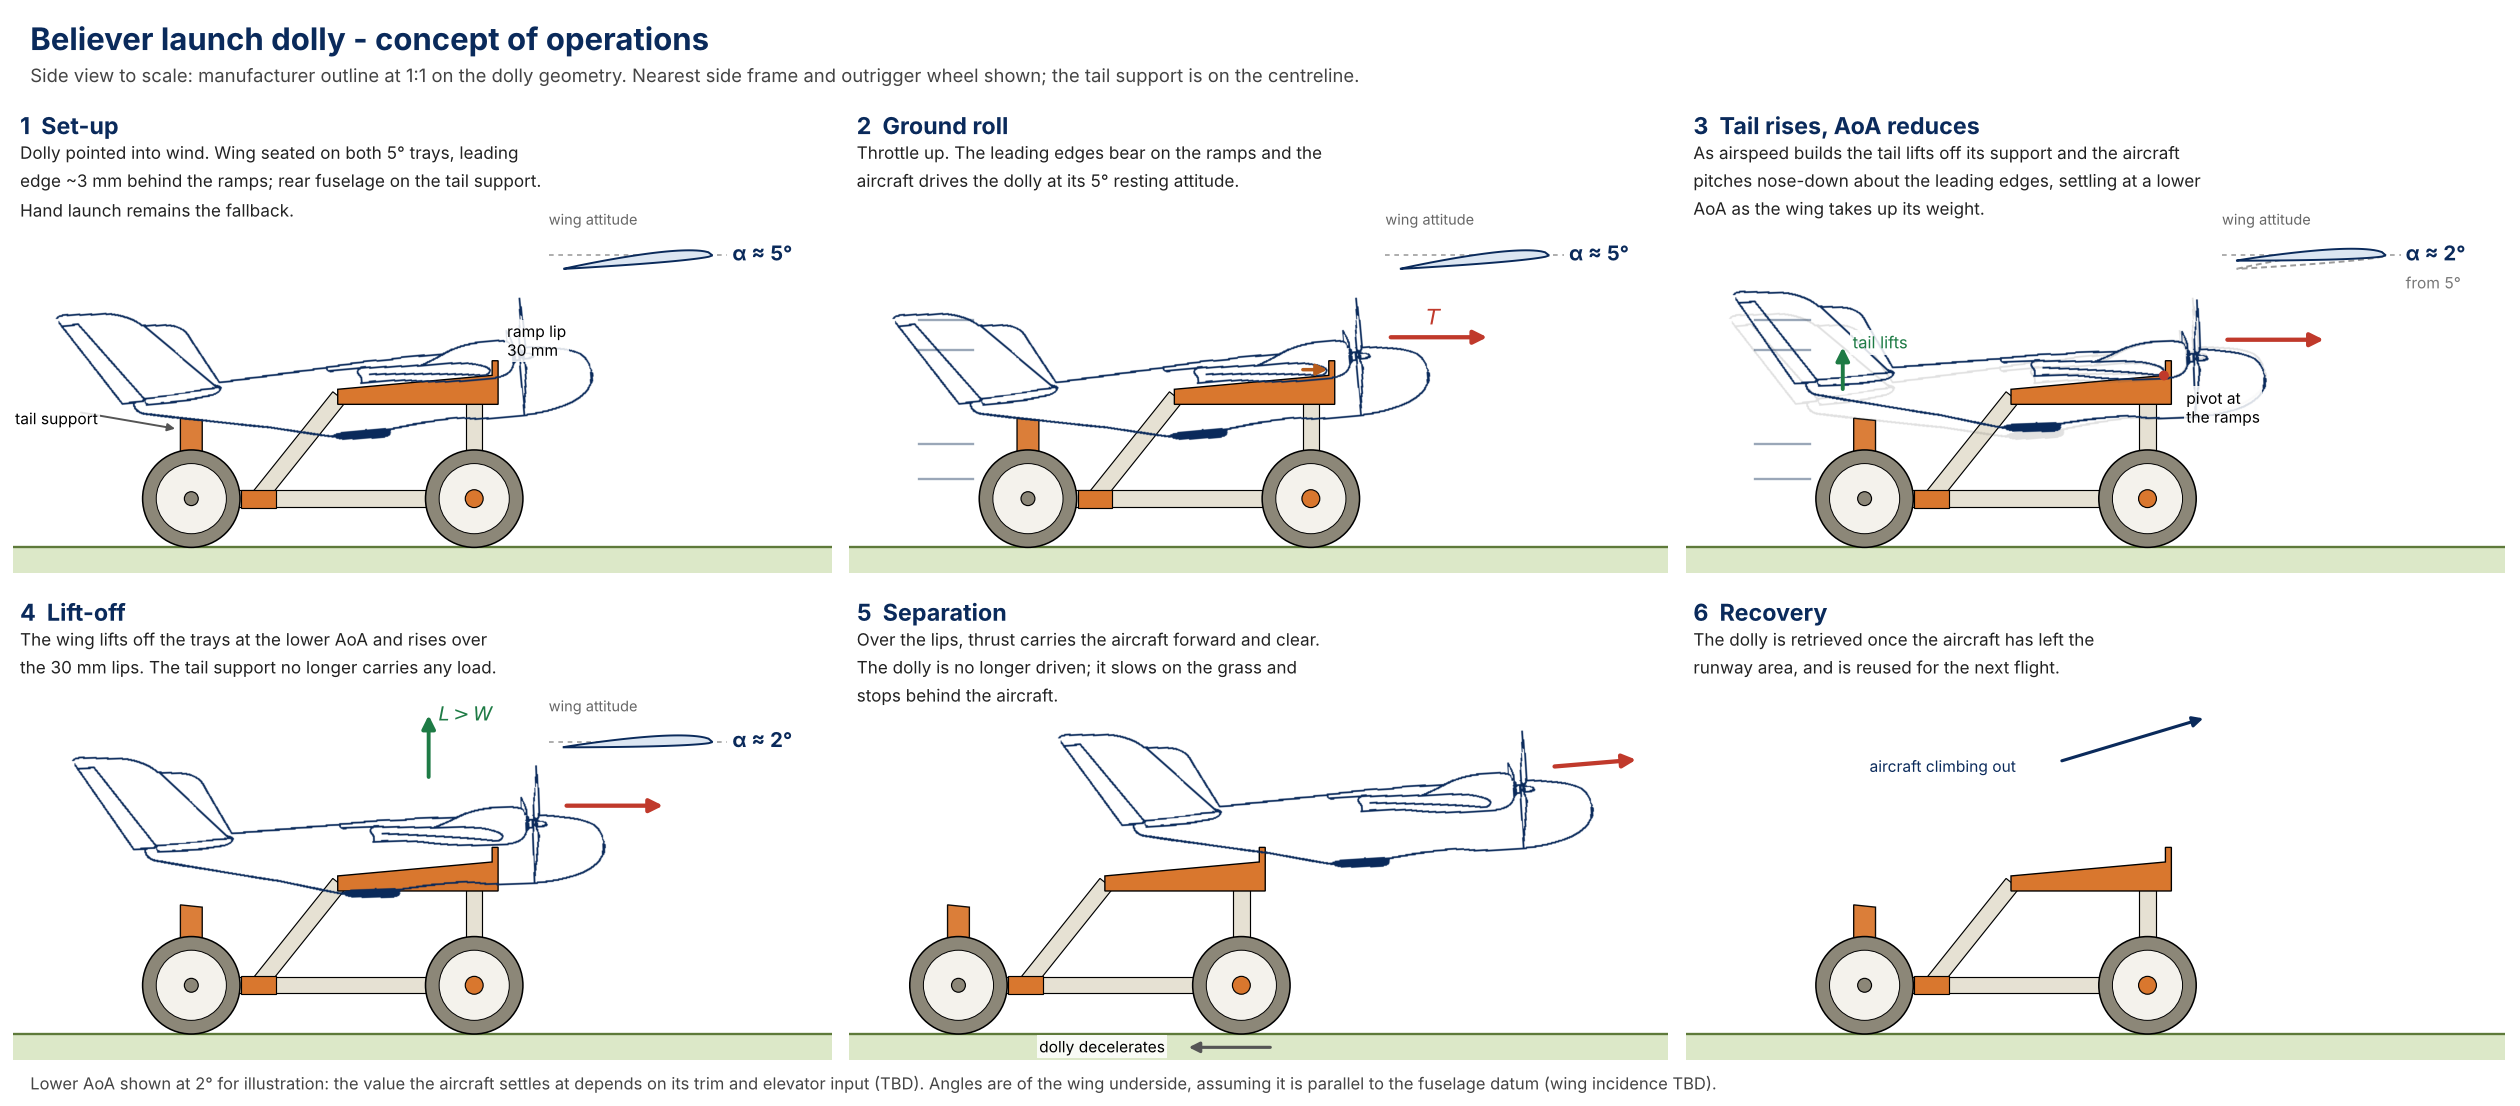
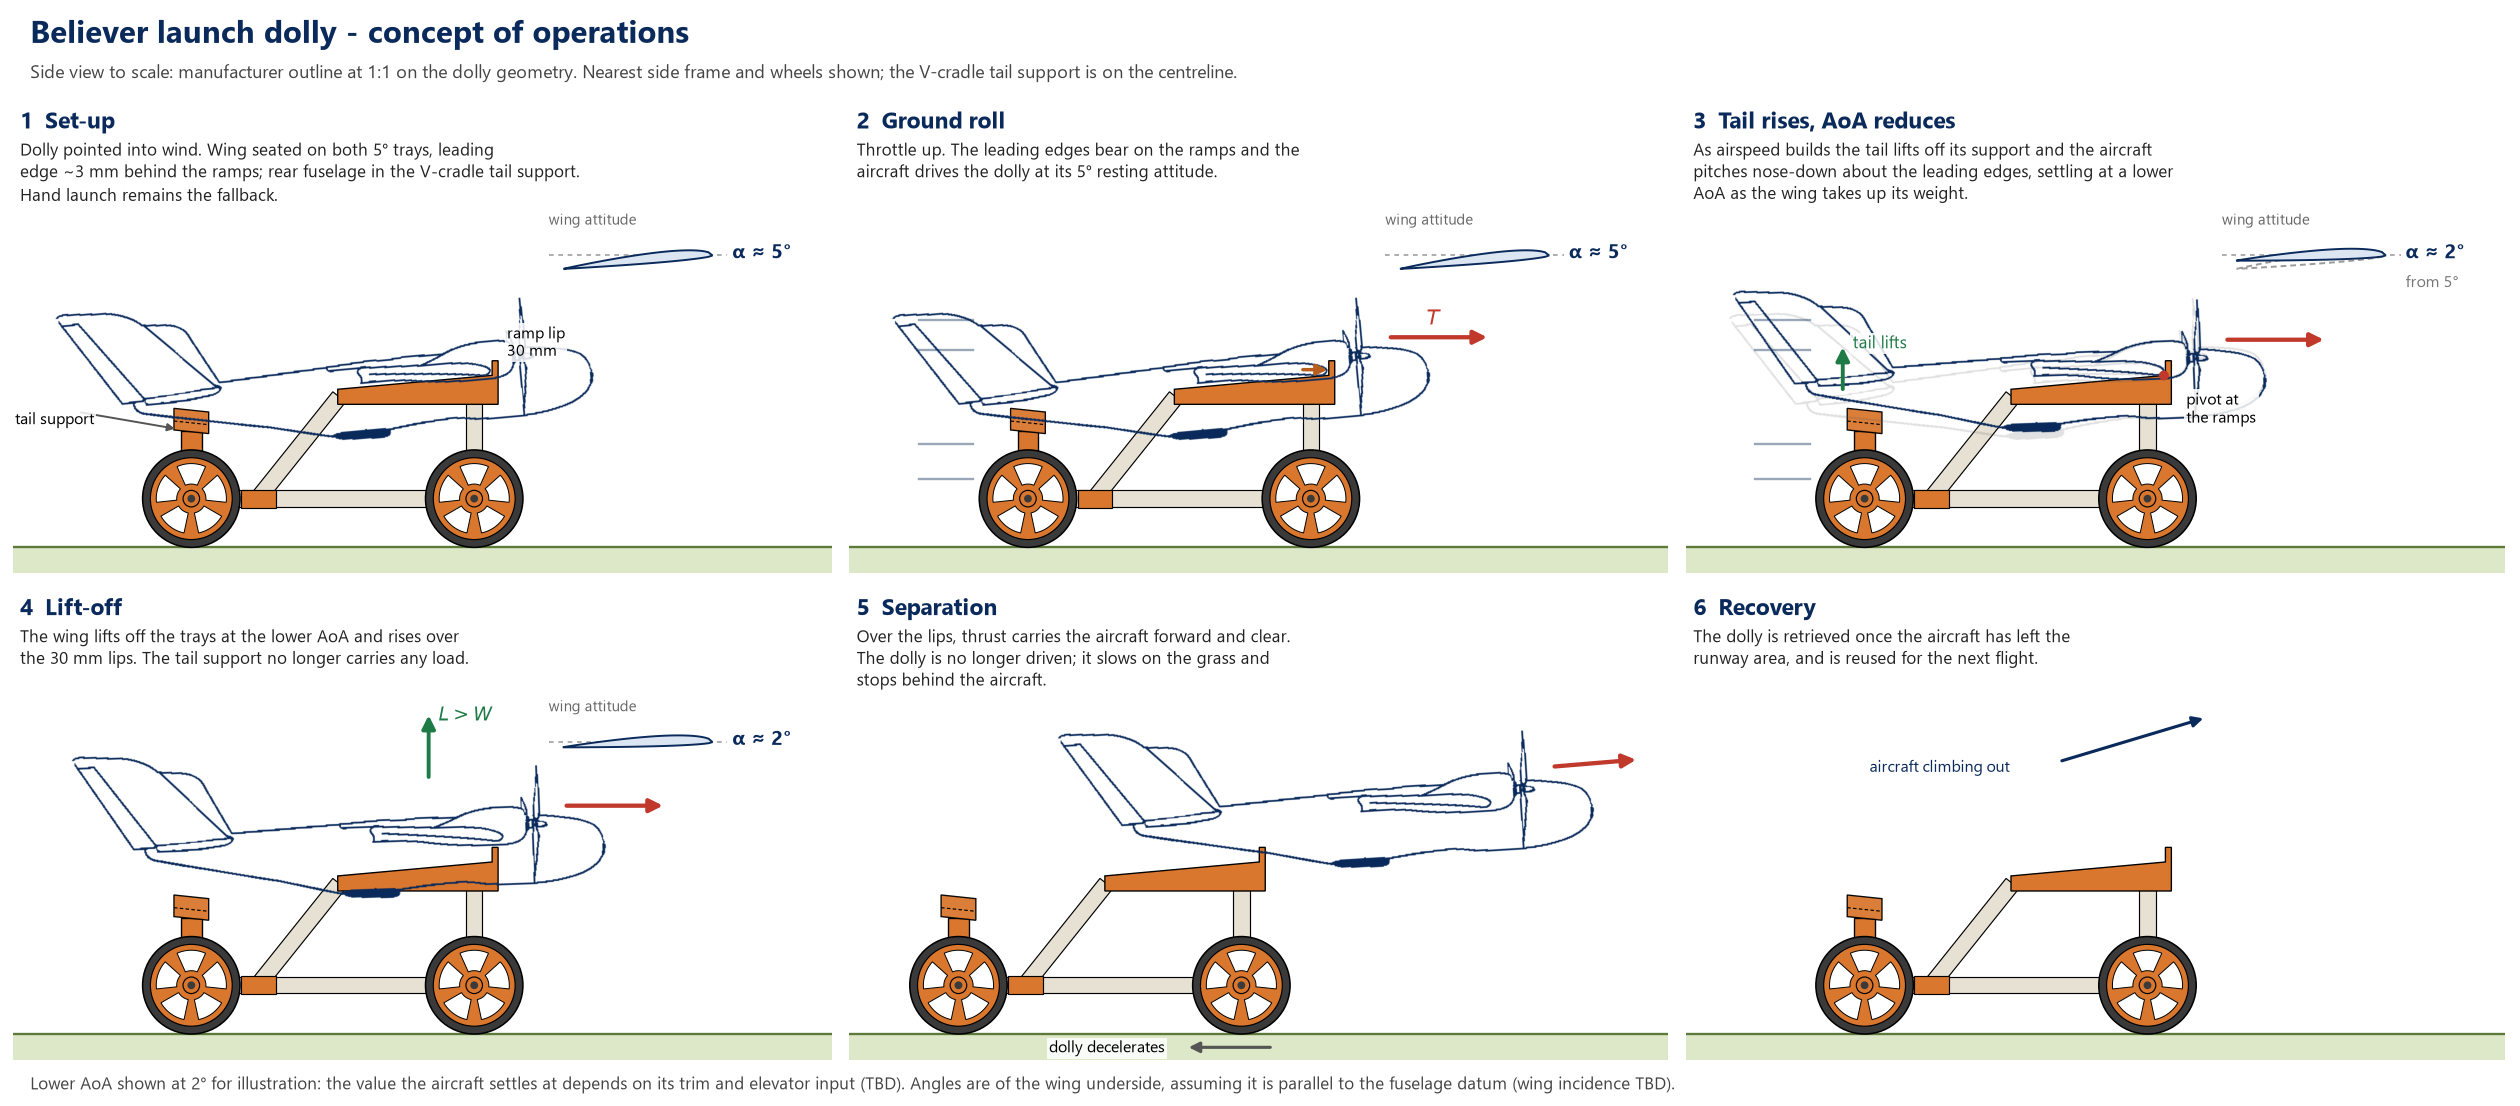
Redraw the launch dolly CONOPS image to match the Fusion model
V-cradle tail support on its centreline post, five-spoke wheels, and no
outrigger reference in the caption. Font falls back to Segoe UI when
Inter is not installed.

diff --git a/docs/engineering/analysis/launch-dolly-concept/rear-support-fit/conops_image.py b/docs/engineering/analysis/launch-dolly-concept/rear-support-fit/conops_image.py
@@ -6,6 +6,8 @@ import matplotlib.pyplot as plt
 import matplotlib.patches
 from matplotlib.patches import Polygon, Circle, Rectangle, FancyArrowPatch
 import fit_side_view as F
+_fonts = {f.name for f in matplotlib.font_manager.fontManager.ttflist}
+plt.rcParams["font.family"] = next(f for f in ("Inter", "Segoe UI", "DejaVu Sans") if f in _fonts)
 
 NAVY, OR, ORD, TUBE, GREY = "#0A2A5B", "#D9772E", "#B85E1E", "#E6E1D3", "#8C8778"
 S, X0, Y0 = F.S, 755.3, F.RAIL_C                     # screenshot px -> dolly mm (origin: front cross centre)
@@ -63,16 +65,27 @@ def dolly(ax, dx=0.0):
     tray = [(-275, 190), (X_RAMP + 12, 190), (X_RAMP + 12, Y_LIP), (X_RAMP, Y_LIP), (X_RAMP, tray_top(X_RAMP))] + \
            [(x, tray_top(x)) for x in xs[::-1]]
     ax.add_patch(Polygon(sh(tray), closed=True, fc=OR, ec="k", lw=0.7, zorder=5))
-    # tail support: centreline post on the rear cross member, pad top at the belly, 6 deg
-    t6 = math.tan(math.radians(6))
-    ax.add_patch(Polygon(sh([(X_AX - 22, 18), (X_AX + 22, 18), (X_AX + 22, PAD_TOP - 22 * t6), (X_AX - 22, PAD_TOP + 22 * t6)]),
+    # tail support: V-cradle on a centreline post on the rear cross member, belly in the V, top 6 deg (higher at the rear)
+    t6 = math.tan(math.radians(6)); L2 = 35
+    apex, tips, bot = PAD_TOP - 7, PAD_TOP + 18.5, PAD_TOP - 25
+    tube(ax, (X_AX + dx, 18), (X_AX + dx, bot - 40), w=32, z=3)
+    ax.add_patch(Rectangle((X_AX - 21 + dx, bot - 55), 42, 56, fc=OR, ec="k", lw=0.7, zorder=4))
+    ax.add_patch(Polygon(sh([(X_AX - L2, bot + L2 * t6), (X_AX + L2, bot - L2 * t6), (X_AX + L2, tips - L2 * t6), (X_AX - L2, tips + L2 * t6)]),
                          closed=True, fc=OR, ec="k", lw=0.7, zorder=4, alpha=0.95))
-    ax.add_patch(Circle((X_AX + dx, 0), R_W, fc=GREY, ec="k", lw=0.8, zorder=5))
-    ax.add_patch(Circle((X_AX + dx, 0), R_W * 0.72, fc="#F4F2EC", ec="k", lw=0.5, zorder=5))
-    ax.add_patch(Circle((X_AX + dx, 0), 14, fc=GREY, ec="k", lw=0.6, zorder=5))
-    ax.add_patch(Circle((dx, 0), R_W, fc=GREY, ec="k", lw=0.8, zorder=7))
-    ax.add_patch(Circle((dx, 0), R_W * 0.72, fc="#F4F2EC", ec="k", lw=0.5, zorder=7))
-    ax.add_patch(Circle((dx, 0), 18, fc=OR, ec="k", lw=0.6, zorder=7))
+    ax.plot([X_AX - L2 + dx, X_AX + L2 + dx], [apex + L2 * t6, apex - L2 * t6], color="k", lw=0.6, ls=(0, (3, 2)), zorder=4)
+    wheel(ax, X_AX + dx, 5); wheel(ax, dx, 7)
+
+def wheel(ax, x, z):
+    """Five-spoke printed wheel with a tyre, as in the Fusion model."""
+    ax.add_patch(Circle((x, 0), R_W, fc="#3A3A3A", ec="k", lw=0.8, zorder=z))
+    ax.add_patch(Circle((x, 0), R_W * 0.84, fc=OR, ec="k", lw=0.6, zorder=z))
+    for k in range(5):
+        th = np.radians(90 + 72 * k + np.linspace(-24, 24, 12))
+        r1, r2 = R_W * 0.30, R_W * 0.72
+        P = np.r_[np.c_[r2 * np.cos(th), r2 * np.sin(th)], np.c_[r1 * np.cos(th[::-1]), r1 * np.sin(th[::-1])]] + [x, 0]
+        ax.add_patch(Polygon(P, closed=True, fc="white", ec="k", lw=0.5, zorder=z))
+    ax.add_patch(Circle((x, 0), R_W * 0.17, fc=OR, ec="k", lw=0.6, zorder=z))
+    ax.add_patch(Circle((x, 0), R_W * 0.08, fc="#3A3A3A", ec="none", zorder=z))
 
 def arrow(ax, p, q, col, lw=2.2, z=9, ms=14):
     ax.add_patch(FancyArrowPatch(p, q, arrowstyle="-|>", mutation_scale=ms, lw=lw, color=col, zorder=z))
@@ -91,8 +104,8 @@ def panel(ax, n, title, body):
 
 fig = plt.figure(figsize=(18, 7.9), dpi=140)
 fig.text(0.012, 0.982, "Believer launch dolly - concept of operations", fontsize=16, weight="bold", va="top", color=NAVY)
-fig.text(0.012, 0.942, "Side view to scale: manufacturer outline at 1:1 on the dolly geometry. Nearest side frame and outrigger wheel shown; "
-         "the tail support is on the centreline.", fontsize=9.5, va="top", color="#444")
+fig.text(0.012, 0.942, "Side view to scale: manufacturer outline at 1:1 on the dolly geometry. Nearest side frame and wheels shown; "
+         "the V-cradle tail support is on the centreline.", fontsize=9.5, va="top", color="#444")
 axs = [fig.add_axes([0.005 + c * 0.332, 0.475 - r * 0.44, 0.325, 0.44]) for r in range(2) for c in range(3)]
 LEc = np.array([LE[0], LE[1] - 2.0])                       # leading-edge contact on the tray (pivot for pitch-down)
 A_LOW = 2.0                                                # illustrative lower AoA (trim), TBD
@@ -139,7 +152,7 @@ def ghost(ax):
     aircraft(ax, alpha=0.18, colour="#555555")
 
 # 1 set-up
-ax = axs[0]; panel(ax, 1, "Set-up", "Dolly pointed into wind. Wing seated on both 5° trays, leading\nedge ~3 mm behind the ramps; rear fuselage on the tail support.\nHand launch remains the fallback.")
+ax = axs[0]; panel(ax, 1, "Set-up", "Dolly pointed into wind. Wing seated on both 5° trays, leading\nedge ~3 mm behind the ramps; rear fuselage in the V-cradle tail support.\nHand launch remains the fallback.")
 dolly(ax); f = aircraft(ax); gauge(ax, F.TRAY_DEG)
 label(ax, X_RAMP + 30, Y_LIP + 10, "ramp lip\n30 mm", fontsize=8)
 label(ax, -925, 150, "tail support", fontsize=8)

diff --git a/AI-context/CHANGELOG.md b/AI-context/CHANGELOG.md
@@ -2,6 +2,9 @@
 
 All notable changes to the Believer project repo are logged here, most recent first.
 
+## 2026-11-09
+- Redrew `docs/assets/diagrams/launch-dolly-conops.png` to match the current Fusion dolly model: the tail support is now drawn as the V-cradle on its centreline post (top 6 deg, higher at the rear), both wheels are the five-spoke printed wheels, and the caption no longer refers to an outrigger wheel. Geometry is otherwise unchanged from the 2026-11-05 side-view fit (rear axle 570 mm aft of the front cross member, wheel about 196 mm). `rear-support-fit/conops_image.py` now uses Inter if installed, otherwise Segoe UI, otherwise DejaVu Sans.
+
 ## 2026-11-05
 - Launch dolly, per Julian: designed the tail support from the rear view. New `docs/engineering/analysis/launch-dolly-concept/tail_cradle.py` generates sheet BLV-DOL-007 (section at the rear axle looking forward, cradle section and side, 1:3 and 1:2; also `docs/assets/diagrams/launch-dolly-BLV-DOL-007.png`) and the printable cradle (`out/printed-tail-cradle-v2.step/.stl`, TPU liner `-liner.stl`). A 160 mm wide V-cradle with 20 deg flanks and a 4 mm TPU liner, top inclined 6 deg to match the belly, on a 32 mm post with an M5 cross-bolt for +/-20 mm height adjustment, in a tee on the rear cross member; V apex 153 mm above the axle so the belly bottom sits 160 mm above it. The fuselage section at the station (assumed 130 x 65 mm, rounded) is TBD - the manufacturer drawing's top and front views are not to scale. SRD Section 3c configuration row updated.
 - Launch dolly, per Julian: completed the concept with a front wheel each side on an outrigger braced by three members (outrigger arm from the front corner tee, horizontal brace back to the rail tee, vertical strut up to a tee on the front upright), outboard of the prop discs. New `docs/engineering/analysis/launch-dolly-concept/dolly_v2_model.py` (CadQuery model of Julian's Fusion side frames plus the outriggers; rail spacing 340 mm and outrigger geometry are TBD) and `dolly_v2_sheet.py`, which writes concept-view sheet BLV-DOL-006 (front and rear isometrics, plan, side and front views, key data) to `out/` and `docs/assets/diagrams/launch-dolly-BLV-DOL-006.png`. On the manufacturer drawing's propeller position the ramp lips sit about 44 mm behind the prop discs (75 mm wanted), flagged in the SRD and open items. Redrew `docs/assets/diagrams/launch-dolly-conops.png` for the tail-rise concept Julian intends: the tail lifts off its support as airspeed builds and the aircraft pitches nose-down about the leading edges to a lower AoA, then lifts over the ramp lips; attitude gauges show the AoA in each phase and the lift equation was removed. SRD Section 3c launch sequence, configuration table and Sections 5-6 updated to match (lift-off speed now depends on the AoA reached during the tail rise: about 12.4 m/s at 5 deg, 16 m/s at 2 deg); project notes and open items updated.
